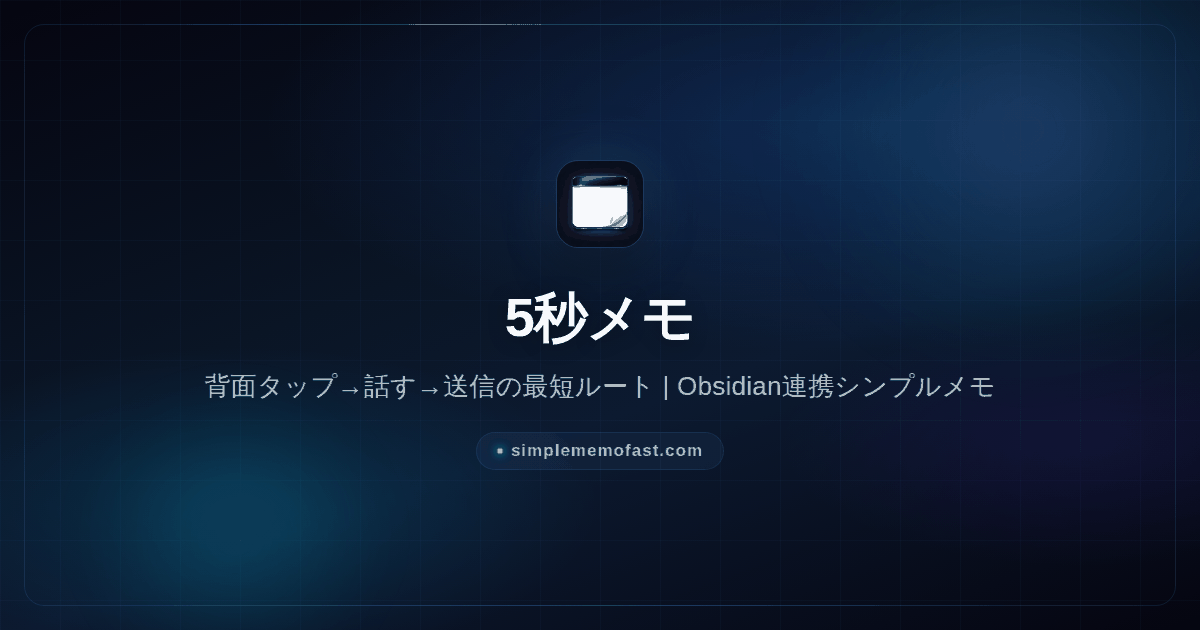
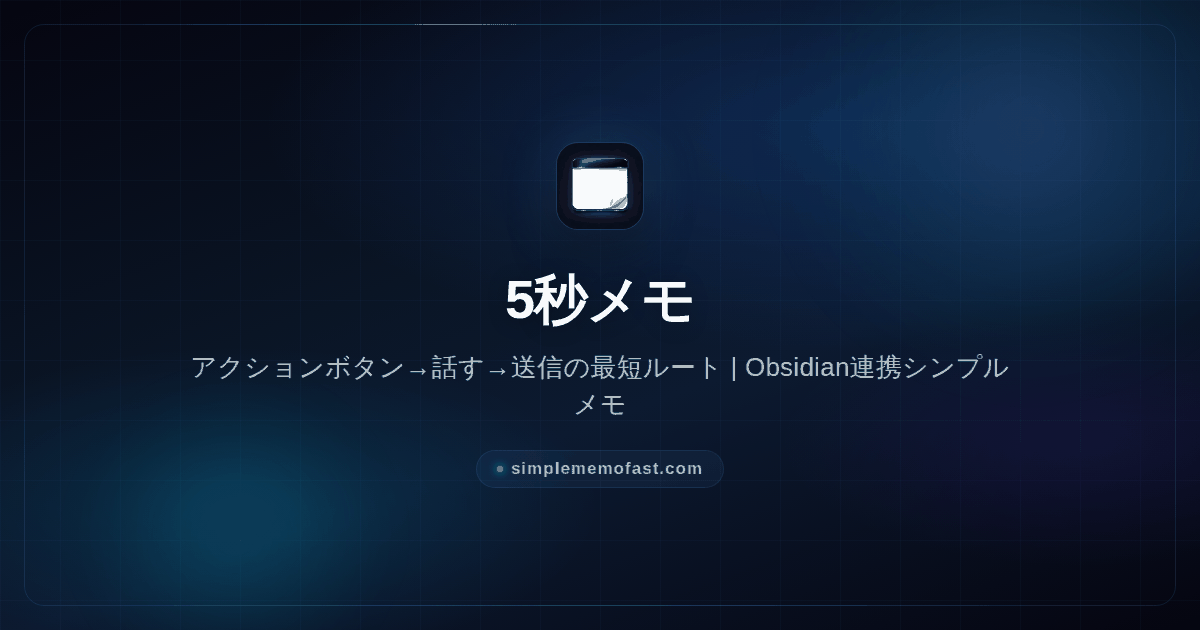
fix(lp): 呼び出しの主役をアクションボタンに直す（/fastest-voice-memo/）
収録機は iPhone 16e で、押されていたのは側面のアクションボタンだった。
先の実装は「背面タップ主・アクションボタン従」で書いていたが逆で、しかも
搭載機種の記述（「iPhone 15 Pro 以降」）が 16e を取りこぼしていた。
アクションボタンは iPhone 15 Pro／15 Pro Max と iPhone 16 シリーズ以降
（16e を含む）に付いている。

- title / description / OG / JSON-LD / ヒーロー / 比較表 / 設定手順 / FAQ を、
  アクションボタンを先に出す順へ入れ替える。FAQ は可視HTMLとFAQPage schema の
  文言を同一に保った。
- デモの拍1を作り直す。背面タップの波紋（画面中央の同心円）では側面ボタンの
  長押しを表せないので、フレーム外に出したアクションボタンが点灯して長押しの
  間だけ保持されるアニメーションにした。音量ボタンも足して、光っているのが
  どのボタンなのかを位置で分かるようにしてある。クリップは .demo__phone から
  .demo__screen へ移し、側面の突起がフレーム外に描けるようにした。
- 内部リンク3か所のアンカーテキストと OG 画像も追随させた。

seo-check: 0 errors / 164 warnings（変更前と同数）、JSON-LD は全て parse 可能、
モバイル横スクロール 0px。

Claude-Session: https://claude.ai/code/session_013fVEDUAziXDyrKEX7BhyDF

Changed region(s): [[0.1542, 0.4222, 0.8325, 0.6635], [0.4625, 0.2111, 0.555, 0.3921], [0.4008, 0.6937, 0.5858, 0.754]]

diff --git a/fastest-voice-memo/index.html b/fastest-voice-memo/index.html
@@ -22,13 +22,13 @@
       });
     });
   </script>
-  <title>5秒メモ — 背面タップ→話す→送信の最短ルート | Obsidian連携シンプルメモ</title>
-  <meta name="description" content="思いついてから送信まで実測5秒。iPhoneの背面タップかアクションボタンに「声でメモ」を割り当て、起動時の音声自動オンと組み合わせる最短ルートを、設定手順つきで解説します。">
+  <title>5秒メモ — アクションボタン→話す→送信の最短ルート | Obsidian連携シンプルメモ</title>
+  <meta name="description" content="思いついてから送信まで実測5秒。iPhoneのアクションボタン（または背面タップ）に「声でメモ」を割り当て、起動時の音声自動オンと組み合わせる最短ルートを設定手順つきで解説します。">
   <meta name="theme-color" content="#070b14">
 
   <!-- OGP -->
-  <meta property="og:title" content="5秒メモ — 背面タップ→話す→送信の最短ルート | Obsidian連携シンプルメモ">
-  <meta property="og:description" content="思いついてから送信まで実測5秒。背面タップ／アクションボタン＋起動時の音声自動オンで、画面を見ないままメモが終わる最短ルート。">
+  <meta property="og:title" content="5秒メモ — アクションボタン→話す→送信の最短ルート | Obsidian連携シンプルメモ">
+  <meta property="og:description" content="思いついてから送信まで実測5秒。アクションボタン／背面タップ＋起動時の音声自動オンで、画面を見ないままメモが終わる最短ルート。">
   <meta property="og:type" content="article">
   <meta property="article:published_time" content="2026-07-31T00:00:00+09:00">
   <meta property="og:url" content="https://simplememofast.com/fastest-voice-memo/">
@@ -42,8 +42,8 @@
   <!-- Twitter Card -->
   <meta name="twitter:card" content="summary_large_image">
   <meta name="twitter:site" content="@simplememofast">
-  <meta name="twitter:title" content="5秒メモ — 背面タップ→話す→送信の最短ルート | Obsidian連携シンプルメモ">
-  <meta name="twitter:description" content="思いついてから送信まで実測5秒。背面タップ＋起動時の音声自動オンで、画面を見ないままメモが終わる最短ルート。">
+  <meta name="twitter:title" content="5秒メモ — アクションボタン→話す→送信の最短ルート | Obsidian連携シンプルメモ">
+  <meta name="twitter:description" content="思いついてから送信まで実測5秒。アクションボタン＋起動時の音声自動オンで、画面を見ないままメモが終わる最短ルート。">
   <meta name="twitter:image" content="https://simplememofast.com/assets/img/og/fastest-voice-memo.png">
   <link rel="preconnect" href="https://analytics.ahrefs.com">
   <!-- i18n: managed by scripts/normalize_i18n_head.py -->
@@ -70,14 +70,14 @@
   </script>
 
   <!-- JSON-LD: Article -->
-  <script type="application/ld+json">{"@context":"https://schema.org","@type":"Article","@id":"https://simplememofast.com/fastest-voice-memo/#article","inLanguage":"ja","headline":"5秒メモ — 背面タップ→話す→送信の最短ルート","description":"思いついてから送信まで実測5秒。iPhoneの背面タップかアクションボタンに「声でメモ」を割り当て、起動時の音声自動オンと組み合わせる最短ルートを、設定手順つきで解説します。","url":"https://simplememofast.com/fastest-voice-memo/","datePublished":"2026-07-31","dateModified":"2026-07-31","author":{"@type":"Person","@id":"https://simplememofast.com/about/#person","name":"AI Ataka","url":"https://simplememofast.com/about/"},"publisher":{"@type":"Organization","name":"Obsidian連携シンプルメモ","@id":"https://simplememofast.com/#organization","url":"https://simplememofast.com/","logo":{"@type":"ImageObject","url":"https://simplememofast.com/assets/img/app-icon-256.png","width":256,"height":256},"alternateName":["Captio式シンプルメモ","シンプルメモ","SimpleMemoFast","Simple Memo","Simple Memo - for Obsidian"]},"image":"https://simplememofast.com/assets/img/og/fastest-voice-memo.png","mainEntityOfPage":{"@type":"WebPage","@id":"https://simplememofast.com/fastest-voice-memo/"}}</script>
+  <script type="application/ld+json">{"@context":"https://schema.org","@type":"Article","@id":"https://simplememofast.com/fastest-voice-memo/#article","inLanguage":"ja","headline":"5秒メモ — アクションボタン→話す→送信の最短ルート","description":"思いついてから送信まで実測5秒。iPhoneのアクションボタン（または背面タップ）に「声でメモ」を割り当て、起動時の音声自動オンと組み合わせる最短ルートを設定手順つきで解説します。","url":"https://simplememofast.com/fastest-voice-memo/","datePublished":"2026-07-31","dateModified":"2026-07-31","author":{"@type":"Person","@id":"https://simplememofast.com/about/#person","name":"AI Ataka","url":"https://simplememofast.com/about/"},"publisher":{"@type":"Organization","name":"Obsidian連携シンプルメモ","@id":"https://simplememofast.com/#organization","url":"https://simplememofast.com/","logo":{"@type":"ImageObject","url":"https://simplememofast.com/assets/img/app-icon-256.png","width":256,"height":256},"alternateName":["Captio式シンプルメモ","シンプルメモ","SimpleMemoFast","Simple Memo","Simple Memo - for Obsidian"]},"image":"https://simplememofast.com/assets/img/og/fastest-voice-memo.png","mainEntityOfPage":{"@type":"WebPage","@id":"https://simplememofast.com/fastest-voice-memo/"}}</script>
 
   <!-- JSON-LD: FAQPage -->
-  <script type="application/ld+json">{"@context":"https://schema.org","@type":"FAQPage","@id":"https://simplememofast.com/fastest-voice-memo/#faq","inLanguage":"ja","mainEntity":[{"@type":"Question","name":"本当に5秒で終わりますか？","acceptedAnswer":{"@type":"Answer","text":"呼び出しから送信完了までの実測で約5秒です。内訳は、背面タップでの呼び出しとアプリ起動に約1.5秒、話す時間が2秒前後、送信タップから画面が空になるまでが約1秒。話す内容が長ければその分だけ伸びますが、「アプリを探す」「マイクを押す」「保存先を選ぶ」といった操作時間はゼロのままです。"}},{"@type":"Question","name":"背面タップはどの機種で使えますか？","acceptedAnswer":{"@type":"Answer","text":"iPhone 8 以降で使えます（iOSの設定 → アクセシビリティ → タッチ → 背面タップ）。iPhone 15 Pro 以降ならアクションボタンでも同じことができ、こちらは誤爆がほぼ無いのが利点です。どちらも無い場合は、ロック画面のコントロールやホーム画面のショートカット、Siriでも呼び出せます。"}},{"@type":"Question","name":"ショートカットを自分で作る必要はありますか？","acceptedAnswer":{"@type":"Answer","text":"必要ありません。アプリが「声でメモ」「メモを書く」をショートカットとしてOSに公開しているため、背面タップやアクションボタンの割り当て一覧にそのまま並びます。ショートカットアプリでレシピを組む作業は不要です。"}},{"@type":"Question","name":"開いた瞬間に音声入力が始まるのはどう設定しますか？","acceptedAnswer":{"@type":"Answer","text":"アプリの設定 → 詳細設定 →「起動時に音声入力を自動オン」をオンにします。設定 → 使い方 →「おすすめの使い方（最短5秒）」からも、その場でオンにできます。対応はiOS 26以降の対応端末です。"}},{"@type":"Question","name":"話した内容はどこに残りますか？","acceptedAnswer":{"@type":"Answer","text":"送信すると自分のメールの受信箱に届きます。Obsidian連携をオンにしていれば、同じ内容が保管庫のノートにも追記されます。文字起こしは端末内で完結し、音声もテキストも外部の音声認識サービスには送りません。"}},{"@type":"Question","name":"言い間違えたときはどうすればいいですか？","acceptedAnswer":{"@type":"Answer","text":"そのまま言い直して構いません。送信前ならキーボードで直せますし、入力中の内容は端末内に暗号化して自動保存されるため、途中で中断しても次に開けば続きから編集できます。最短ルートの目的は「完璧な文を作ること」ではなく「思いつきを取り逃がさないこと」です。"}}]}</script>
+  <script type="application/ld+json">{"@context":"https://schema.org","@type":"FAQPage","@id":"https://simplememofast.com/fastest-voice-memo/#faq","inLanguage":"ja","mainEntity":[{"@type":"Question","name":"本当に5秒で終わりますか？","acceptedAnswer":{"@type":"Answer","text":"呼び出しから送信完了までの実測で約5秒です。内訳は、アクションボタンの長押しとアプリ起動に約1.5秒、話す時間が2秒前後、送信タップから画面が空になるまでが約1秒。話す内容が長ければその分だけ伸びますが、「アプリを探す」「マイクを押す」「保存先を選ぶ」といった操作時間はゼロのままです。"}},{"@type":"Question","name":"アクションボタンが無い機種でも使えますか？","acceptedAnswer":{"@type":"Answer","text":"使えます。背面タップ（iPhone 8 以降）に同じ「声でメモ」を割り当ててください。iOSの設定 → アクセシビリティ → タッチ → 背面タップ → ダブルタップ から選べます。ロック画面のコントロールやホーム画面のショートカット、Siriでも呼び出せます。なお、アクションボタンは iPhone 15 Pro／15 Pro Max と iPhone 16 シリーズ以降（16e を含む）に付いています。"}},{"@type":"Question","name":"ショートカットを自分で作る必要はありますか？","acceptedAnswer":{"@type":"Answer","text":"必要ありません。アプリが「声でメモ」「メモを書く」をショートカットとしてOSに公開しているため、アクションボタンや背面タップの割り当て一覧にそのまま並びます。ショートカットアプリでレシピを組む作業は不要です。"}},{"@type":"Question","name":"開いた瞬間に音声入力が始まるのはどう設定しますか？","acceptedAnswer":{"@type":"Answer","text":"アプリの設定 → 詳細設定 →「起動時に音声入力を自動オン」をオンにします。設定 → 使い方 →「おすすめの使い方（最短5秒）」からも、その場でオンにできます。対応はiOS 26以降の対応端末です。"}},{"@type":"Question","name":"話した内容はどこに残りますか？","acceptedAnswer":{"@type":"Answer","text":"送信すると自分のメールの受信箱に届きます。Obsidian連携をオンにしていれば、同じ内容が保管庫のノートにも追記されます。文字起こしは端末内で完結し、音声もテキストも外部の音声認識サービスには送りません。"}},{"@type":"Question","name":"言い間違えたときはどうすればいいですか？","acceptedAnswer":{"@type":"Answer","text":"そのまま言い直して構いません。送信前ならキーボードで直せますし、入力中の内容は端末内に暗号化して自動保存されるため、途中で中断しても次に開けば続きから編集できます。最短ルートの目的は「完璧な文を作ること」ではなく「思いつきを取り逃がさないこと」です。"}}]}</script>
 
   <!-- JSON-LD: WebPage with Speakable -->
   <script type="application/ld+json">
-  {"@context":"https://schema.org","@type":"WebPage","@id":"https://simplememofast.com/fastest-voice-memo/#webpage","inLanguage":"ja","name":"5秒メモ — 背面タップ→話す→送信の最短ルート | Obsidian連携シンプルメモ","url":"https://simplememofast.com/fastest-voice-memo/","speakable":{"@type":"SpeakableSpecification","cssSelector":[".lp-hero__title",".lp-hero__sub",".lp-section__lead"]},"isPartOf":{"@id":"https://simplememofast.com/#website"}}
+  {"@context":"https://schema.org","@type":"WebPage","@id":"https://simplememofast.com/fastest-voice-memo/#webpage","inLanguage":"ja","name":"5秒メモ — アクションボタン→話す→送信の最短ルート | Obsidian連携シンプルメモ","url":"https://simplememofast.com/fastest-voice-memo/","speakable":{"@type":"SpeakableSpecification","cssSelector":[".lp-hero__title",".lp-hero__sub",".lp-section__lead"]},"isPartOf":{"@id":"https://simplememofast.com/#website"}}
   </script>
   <link rel="stylesheet" href="/assets/css/style.min.css?v=20260702-low">
   <link rel="preload" href="/assets/fonts/NotoSansJP-Regular-subset.woff2" as="font" type="font/woff2" crossorigin>
@@ -140,21 +140,27 @@
        個人情報を含まない抽象化した画面で再現する。全体7秒でループし、
        うち0〜5秒が「実測5秒」に相当する。 */
     .demo{display:flex;flex-wrap:wrap;gap:2.5rem;align-items:center;justify-content:center;margin:2rem 0 1rem}
+    /* 側面のアクションボタンをフレームの外側に出すため、クリップは .demo__screen に任せる */
     .demo__phone{position:relative;width:230px;height:470px;flex:0 0 auto;border-radius:38px;
       background:linear-gradient(160deg,#1b2536,#0b1220);border:1px solid rgba(100,160,220,.25);
-      box-shadow:0 24px 60px rgba(0,0,0,.45);padding:10px;overflow:hidden}
+      box-shadow:0 24px 60px rgba(0,0,0,.45);padding:10px}
+    .demo__abtn{position:absolute;left:-5px;top:104px;width:6px;height:44px;border-radius:3px;
+      background:#3a4557;animation:demoAbtn 7s infinite}
+    .demo__abtn::after{content:'';position:absolute;inset:-8px -14px;border-radius:12px;
+      background:radial-gradient(circle,rgba(34,211,238,.6),transparent 70%);
+      opacity:0;animation:demoAbtnGlow 7s infinite}
+    .demo__vol{position:absolute;right:-4px;width:5px;border-radius:3px;background:#2b3547}
+    .demo__vol--a{top:96px;height:30px}
+    .demo__vol--b{top:134px;height:52px}
     .demo__screen{position:relative;width:100%;height:100%;border-radius:29px;overflow:hidden;background:#0d1526}
     .demo__layer{position:absolute;inset:0;opacity:0}
 
-    /* 拍1: ホーム画面と背面タップの波紋 */
+    /* 拍1: ホーム画面とアクションボタンの長押し */
     .demo__home{background:linear-gradient(180deg,#2a4a72,#3d5f86 55%,#4a4f86);
       display:flex;align-items:flex-start;justify-content:center;padding-top:34px;
       animation:demoHome 7s infinite}
     .demo__grid{display:grid;grid-template-columns:repeat(4,1fr);gap:11px;width:82%}
     .demo__app{aspect-ratio:1;border-radius:11px;background:rgba(255,255,255,.16)}
-    .demo__ripple{position:absolute;left:50%;top:54%;width:26px;height:26px;margin:-13px 0 0 -13px;
-      border-radius:50%;border:2px solid rgba(255,255,255,.85);animation:demoRipple 7s infinite}
-    .demo__ripple--b{animation-delay:.18s}
     .demo__banner{position:absolute;top:16px;left:50%;transform:translateX(-50%);
       display:flex;align-items:center;gap:7px;padding:8px 16px;border-radius:18px;
       background:rgba(245,247,250,.94);color:#111;font-size:.72rem;font-weight:700;white-space:nowrap;
@@ -194,8 +200,9 @@
     .demo__key--wide{background:#eceef3}
 
     @keyframes demoHome{0%,19%{opacity:1}22%,100%{opacity:0}}
-    @keyframes demoRipple{0%{opacity:0;transform:scale(.4)}3%{opacity:.9;transform:scale(.6)}
-      12%{opacity:0;transform:scale(3.4)}12.1%,100%{opacity:0}}
+    /* 長押しなので、点灯 → しばらく保持 → 消灯（背面タップの2連打とは動きが違う） */
+    @keyframes demoAbtn{0%,1%{background:#3a4557}4%,10%{background:#22d3ee}14%,100%{background:#3a4557}}
+    @keyframes demoAbtnGlow{0%{opacity:0}4%,10%{opacity:1}16%,100%{opacity:0}}
     @keyframes demoBanner{0%,5%{opacity:0;transform:translateX(-50%) translateY(-14px)}
       9%,18%{opacity:1;transform:translateX(-50%) translateY(0)}22%,100%{opacity:0}}
     @keyframes demoCompose{0%,18%{opacity:0}21%,100%{opacity:1}}
@@ -217,7 +224,7 @@
     .demo__caption{text-align:center;font-size:.8rem;color:var(--text-muted);margin-top:.5rem}
 
     @media(prefers-reduced-motion:reduce){
-      .demo__home,.demo__ripple,.demo__banner,.demo__compose,.demo__placeholder,
+      .demo__home,.demo__abtn,.demo__abtn::after,.demo__banner,.demo__compose,.demo__placeholder,
       .demo__typed,.demo__wave,.demo__mic,.demo__send,.demo__wave i{animation:none}
       /* 動きを止める設定では、最後の一枚（話し終えて送信できる状態）を静止画として見せる */
       .demo__home,.demo__placeholder{opacity:0}
@@ -402,14 +409,14 @@
   <!-- Meta Templates for JS -->
   <div class="meta-templates" style="display:none;">
     <div lang="ja" class="meta-template" data-lang="ja">
-      <span class="meta-title">5秒メモ — 背面タップ→話す→送信の最短ルート | Obsidian連携シンプルメモ</span>
-      <span class="meta-og-title">5秒メモ — 背面タップ→話す→送信の最短ルート | Obsidian連携シンプルメモ</span>
-      <span class="meta-description">思いついてから送信まで実測5秒。iPhoneの背面タップかアクションボタンに「声でメモ」を割り当て、起動時の音声自動オンと組み合わせる最短ルートを、設定手順つきで解説します。</span>
+      <span class="meta-title">5秒メモ — アクションボタン→話す→送信の最短ルート | Obsidian連携シンプルメモ</span>
+      <span class="meta-og-title">5秒メモ — アクションボタン→話す→送信の最短ルート | Obsidian連携シンプルメモ</span>
+      <span class="meta-description">思いついてから送信まで実測5秒。iPhoneのアクションボタン（または背面タップ）に「声でメモ」を割り当て、起動時の音声自動オンと組み合わせる最短ルートを設定手順つきで解説します。</span>
     </div>
     <div lang="en" class="meta-template" data-lang="en">
-      <span class="meta-title">The 5-Second Memo — Back Tap, speak, send | Simple Memo</span>
-      <span class="meta-og-title">The 5-Second Memo — Back Tap, speak, send | Simple Memo</span>
-      <span class="meta-description">Five seconds from thought to sent. Assign "Voice Memo" to Back Tap or the Action button, pair it with auto-start voice input, and the whole memo happens without looking at the screen.</span>
+      <span class="meta-title">The 5-Second Memo — Action button, speak, send | Simple Memo</span>
+      <span class="meta-og-title">The 5-Second Memo — Action button, speak, send | Simple Memo</span>
+      <span class="meta-description">Five seconds from thought to sent. Assign "Voice Memo" to the Action button (or Back Tap), pair it with auto-start voice input, and the whole memo happens without looking at the screen.</span>
     </div>
   </div>
 
@@ -427,8 +434,8 @@
           <span lang="en" data-lang="en">Trigger it, speak, send. Five seconds.</span>
         </h1>
         <p class="lp-hero__sub">
-          <span lang="ja" data-lang="ja">いちばん速いメモは、<strong>アプリを探さないメモ</strong>です。iPhoneの背面をトントンと叩くと「声でメモ」が立ち上がり、<strong>開いた瞬間にはもう音声入力が始まっている</strong>。話して、送信を1回。ホーム画面に戻るまで<strong>5秒</strong>で、メモは自分の受信箱とObsidianに届いています。</span>
-          <span lang="en" data-lang="en">The fastest memo is the one where <strong>you never look for the app</strong>. Tap the back of your iPhone twice and "Voice Memo" launches — and <strong>voice input is already running</strong> the moment the screen appears. Speak, tap send once. <strong>Five seconds</strong> later you're back on the Home Screen and the note is in your inbox and your Obsidian vault.</span>
+          <span lang="ja" data-lang="ja">いちばん速いメモは、<strong>アプリを探さないメモ</strong>です。iPhone側面のアクションボタンを長押しすると「声でメモ」が立ち上がり、<strong>開いた瞬間にはもう音声入力が始まっている</strong>。話して、送信を1回。ホーム画面に戻るまで<strong>5秒</strong>で、メモは自分の受信箱とObsidianに届いています。</span>
+          <span lang="en" data-lang="en">The fastest memo is the one where <strong>you never look for the app</strong>. Hold the Action button on the side of your iPhone and "Voice Memo" launches — and <strong>voice input is already running</strong> the moment the screen appears. Speak, tap send once. <strong>Five seconds</strong> later you're back on the Home Screen and the note is in your inbox and your Obsidian vault.</span>
         </p>
         <div class="hero-cta-row" style="display:flex;gap:.75rem;justify-content:center;flex-wrap:wrap;">
           <a lang="ja" data-lang="ja" href="https://apps.apple.com/jp/app/id6758438948?ct=fastestvoice-jp&amp;mt=8" class="app-store-badge" aria-label="App Store からダウンロード">
@@ -451,7 +458,10 @@
       <section class="lp-section" style="padding-top:0;" id="demo">
         <div class="demo">
           <div class="demo__phone" role="img"
-               aria-label="iPhoneの背面を2回叩くと「声でメモ」が起動し、開いた瞬間に音声入力が始まり、話した内容が文字になり、送信をタップして5秒で完了する様子">
+               aria-label="iPhone側面のアクションボタンを長押しすると「声でメモ」が起動し、開いた瞬間に音声入力が始まり、話した内容が文字になり、送信をタップして5秒で完了する様子">
+            <span class="demo__abtn"></span>
+            <span class="demo__vol demo__vol--a"></span>
+            <span class="demo__vol demo__vol--b"></span>
             <div class="demo__screen">
               <div class="demo__layer demo__home">
                 <div class="demo__grid">
@@ -459,8 +469,6 @@
                   <span class="demo__app"></span><span class="demo__app"></span><span class="demo__app"></span><span class="demo__app"></span>
                   <span class="demo__app"></span><span class="demo__app"></span><span class="demo__app"></span><span class="demo__app"></span>
                 </div>
-                <span class="demo__ripple"></span>
-                <span class="demo__ripple demo__ripple--b"></span>
                 <span class="demo__banner"><span lang="ja" data-lang="ja">声でメモ</span><span lang="en" data-lang="en">Voice Memo</span></span>
               </div>
               <div class="demo__layer demo__compose">
@@ -490,8 +498,8 @@
             <li class="demo__beat">
               <span class="demo__time">0.0s</span>
               <div>
-                <div class="demo__beat-title"><span lang="ja" data-lang="ja">背面をトントン</span><span lang="en" data-lang="en">Two taps on the back</span></div>
-                <div class="demo__beat-desc"><span lang="ja" data-lang="ja">ロック解除もアイコン探しも不要。ポケットから出しながら叩けます。</span><span lang="en" data-lang="en">No unlocking, no hunting for an icon — you can do it while pulling the phone out.</span></div>
+                <div class="demo__beat-title"><span lang="ja" data-lang="ja">アクションボタンを長押し</span><span lang="en" data-lang="en">Hold the Action button</span></div>
+                <div class="demo__beat-desc"><span lang="ja" data-lang="ja">ロック解除もアイコン探しも不要。ポケットから出しながら押せます。</span><span lang="en" data-lang="en">No unlocking, no hunting for an icon — you can press it while pulling the phone out.</span></div>
               </div>
             </li>
             <li class="demo__beat">
@@ -534,8 +542,8 @@
       <section class="lp-section" style="padding-top:1rem;">
         <div class="tip-box" style="font-size:.95rem;">
           <div class="tip-box__title"><span lang="ja" data-lang="ja">ひとことで言うと</span><span lang="en" data-lang="en">In one sentence</span></div>
-          <p lang="ja" data-lang="ja"><strong>「声でメモ」を背面タップかアクションボタンに割り当て</strong>、アプリ側で<strong>「起動時に音声入力を自動オン」</strong>にする。この2つを繋ぐだけで、<strong>呼び出し・マイク起動・保存先選択の操作がすべて消え</strong>、残るのは「話す」と「送信」だけになります。</p>
-          <p lang="en" data-lang="en"><strong>Assign "Voice Memo" to Back Tap or the Action button</strong>, then turn on <strong>"Auto-start voice input on launch"</strong> in the app. Wiring those two together <strong>removes launching, starting the mic, and picking a destination</strong> — all that's left is speaking and sending.</p>
+          <p lang="ja" data-lang="ja"><strong>「声でメモ」をアクションボタン（または背面タップ）に割り当て</strong>、アプリ側で<strong>「起動時に音声入力を自動オン」</strong>にする。この2つを繋ぐだけで、<strong>呼び出し・マイク起動・保存先選択の操作がすべて消え</strong>、残るのは「話す」と「送信」だけになります。</p>
+          <p lang="en" data-lang="en"><strong>Assign "Voice Memo" to the Action button (or Back Tap)</strong>, then turn on <strong>"Auto-start voice input on launch"</strong> in the app. Wiring those two together <strong>removes launching, starting the mic, and picking a destination</strong> — all that's left is speaking and sending.</p>
         </div>
       </section>
 
@@ -552,7 +560,7 @@
         <div class="reason-cards">
           <div class="reason-card">
             <div class="reason-card__title">👆 <span lang="ja" data-lang="ja">アプリを探す時間 → 0</span><span lang="en" data-lang="en">Finding the app → gone</span></div>
-            <div class="reason-card__desc"><span lang="ja" data-lang="ja">背面タップ・アクションボタン・Siriのどれからでも呼べます。ホーム画面の何ページ目にあるかを覚えておく必要がありません。</span><span lang="en" data-lang="en">Back Tap, the Action button, or Siri all reach it. You never need to remember which Home Screen page the icon lives on.</span></div>
+            <div class="reason-card__desc"><span lang="ja" data-lang="ja">アクションボタン・背面タップ・Siriのどれからでも呼べます。ホーム画面の何ページ目にあるかを覚えておく必要がありません。</span><span lang="en" data-lang="en">The Action button, Back Tap, or Siri all reach it. You never need to remember which Home Screen page the icon lives on.</span></div>
           </div>
           <div class="reason-card">
             <div class="reason-card__title">🎙 <span lang="ja" data-lang="ja">マイクを押す時間 → 0</span><span lang="en" data-lang="en">Pressing the mic → gone</span></div>
@@ -592,7 +600,7 @@
               <tr>
                 <th scope="row"><span lang="ja" data-lang="ja">起動</span><span lang="en" data-lang="en">Launch</span></th>
                 <td><span lang="ja" data-lang="ja">ロック解除 → ホーム画面を探す → アイコンをタップ</span><span lang="en" data-lang="en">Unlock, find the page, tap the icon</span></td>
-                <td class="col-ours"><span lang="ja" data-lang="ja">背面を2回叩く（画面を見ない）</span><span lang="en" data-lang="en">Two taps on the back — eyes free</span></td>
+                <td class="col-ours"><span lang="ja" data-lang="ja">側面のボタンを長押し（画面を見ない）</span><span lang="en" data-lang="en">Hold the side button — eyes free</span></td>
               </tr>
               <tr>
                 <th scope="row"><span lang="ja" data-lang="ja">新規作成</span><span lang="en" data-lang="en">New note</span></th>
@@ -637,19 +645,19 @@
           <span lang="en" data-lang="en">Four ways to trigger it — pick one</span>
         </h2>
         <p class="lp-section__lead">
-          <span lang="ja" data-lang="ja">アプリが「声でメモ」というショートカットをiOSに公開しているので、ショートカットアプリでレシピを自作する必要はありません。割り当て一覧にそのまま並びます。</span>
+          <span lang="ja" data-lang="ja">アプリが「声でメモ」というショートカットをiOSに公開しているので、ショートカットアプリでレシピを自作する必要はありません。アクションボタンや背面タップの割り当て一覧に、そのまま並びます。</span>
           <span lang="en" data-lang="en">The app publishes a "Voice Memo" shortcut to iOS, so there's no recipe to build in the Shortcuts app — it simply appears in the assignment lists.</span>
         </p>
         <div class="trigger-grid">
           <div class="trigger-card trigger-card--best">
             <span class="trigger-card__badge"><span lang="ja" data-lang="ja">いちばん速い</span><span lang="en" data-lang="en">Fastest</span></span>
-            <div class="trigger-card__title"><span lang="ja" data-lang="ja">背面タップ（iPhone 8 以降）</span><span lang="en" data-lang="en">Back Tap (iPhone 8 and later)</span></div>
-            <div class="trigger-card__path"><span lang="ja" data-lang="ja">設定 → アクセシビリティ → タッチ → 背面タップ → ダブルタップ → ショートカットの「声でメモ」</span><span lang="en" data-lang="en">Settings → Accessibility → Touch → Back Tap → Double Tap → the "Voice Memo" shortcut</span></div>
+            <div class="trigger-card__title"><span lang="ja" data-lang="ja">アクションボタン</span><span lang="en" data-lang="en">The Action button</span></div>
+            <div class="trigger-card__path"><span lang="ja" data-lang="ja">設定 → アクションボタン → ショートカット →「声でメモ」<br>対応機種: iPhone 15 Pro／15 Pro Max、iPhone 16 シリーズ以降（16e を含む）</span><span lang="en" data-lang="en">Settings → Action Button → Shortcut → "Voice Memo"<br>On iPhone 15 Pro / 15 Pro Max and the iPhone 16 lineup onward, including 16e.</span></div>
           </div>
           <div class="trigger-card">
-            <span class="trigger-card__badge"><span lang="ja" data-lang="ja">誤爆が少ない</span><span lang="en" data-lang="en">Fewest misfires</span></span>
-            <div class="trigger-card__title"><span lang="ja" data-lang="ja">アクションボタン（iPhone 15 Pro 以降）</span><span lang="en" data-lang="en">Action button (iPhone 15 Pro and later)</span></div>
-            <div class="trigger-card__path"><span lang="ja" data-lang="ja">設定 → アクションボタン → ショートカット →「声でメモ」</span><span lang="en" data-lang="en">Settings → Action Button → Shortcut → "Voice Memo"</span></div>
+            <span class="trigger-card__badge"><span lang="ja" data-lang="ja">機種を選ばない</span><span lang="en" data-lang="en">Widest support</span></span>
+            <div class="trigger-card__title"><span lang="ja" data-lang="ja">背面タップ（iPhone 8 以降）</span><span lang="en" data-lang="en">Back Tap (iPhone 8 and later)</span></div>
+            <div class="trigger-card__path"><span lang="ja" data-lang="ja">設定 → アクセシビリティ → タッチ → 背面タップ → ダブルタップ → ショートカットの「声でメモ」</span><span lang="en" data-lang="en">Settings → Accessibility → Touch → Back Tap → Double Tap → the "Voice Memo" shortcut</span></div>
           </div>
           <div class="trigger-card">
             <span class="trigger-card__badge"><span lang="ja" data-lang="ja">手がふさがるとき</span><span lang="en" data-lang="en">Hands full</span></span>
@@ -657,7 +665,7 @@
             <div class="trigger-card__path"><span lang="ja" data-lang="ja">「シンプルメモで音声メモ」と話しかけるだけ。設定は不要です。</span><span lang="en" data-lang="en">Just say "Start a voice memo with Simple Memo." No setup needed.</span></div>
           </div>
           <div class="trigger-card">
-            <span class="trigger-card__badge"><span lang="ja" data-lang="ja">機種を選ばない</span><span lang="en" data-lang="en">Any device</span></span>
+            <span class="trigger-card__badge"><span lang="ja" data-lang="ja">片手で</span><span lang="en" data-lang="en">One-handed</span></span>
             <div class="trigger-card__title"><span lang="ja" data-lang="ja">ホーム画面・ロック画面</span><span lang="en" data-lang="en">Home Screen / Lock Screen</span></div>
             <div class="trigger-card__path"><span lang="ja" data-lang="ja">ウィジェットやコントロールを親指の届く位置に置いて1タップ。</span><span lang="en" data-lang="en">Put the widget or control within thumb reach and tap once.</span></div>
           </div>
@@ -671,31 +679,31 @@
           <span lang="en" data-lang="en">Setup (about a minute)</span>
         </h2>
         <ul lang="ja" class="prereq-list" data-lang="ja">
-          <li>iPhone（背面タップは iPhone 8 以降）</li>
+          <li>iPhone（アクションボタン搭載機、または背面タップが使える iPhone 8 以降）</li>
           <li>音声入力は iOS 26 以降の対応端末</li>
           <li>アプリの初回設定で宛先メールを認証済みであること</li>
         </ul>
         <ul lang="en" class="prereq-list" data-lang="en">
-          <li>An iPhone (Back Tap needs iPhone 8 or later)</li>
+          <li>An iPhone (an Action button model, or iPhone 8+ for Back Tap)</li>
           <li>Voice input requires a supported device on iOS 26+</li>
           <li>Your destination email verified during first-run setup</li>
         </ul>
         <ol lang="ja" class="steps-list" data-lang="ja">
           <li><strong>音声の自動オンを入れる</strong><br>アプリの設定 → 詳細設定 →「起動時に音声入力を自動オン」をオン。設定 → 使い方 →「おすすめの使い方（最短5秒）」からも、その場で切り替えられます。</li>
-          <li><strong>呼び出しを割り当てる</strong><br>iPhoneの設定 → アクセシビリティ → タッチ → 背面タップ → ダブルタップ。一覧を下までスクロールし、ショートカット欄の「声でメモ」を選びます。</li>
-          <li><strong>1回テストする</strong><br>背面をトントン。メモ画面が開いて録音が始まったら成功です。何か話して送信し、受信箱に届くところまで確認します。</li>
+          <li><strong>呼び出しを割り当てる</strong><br>iPhoneの設定 → アクションボタン → ショートカット →「声でメモ」。アクションボタンが無い機種は、設定 → アクセシビリティ → タッチ → 背面タップ → ダブルタップ から同じ「声でメモ」を選びます。</li>
+          <li><strong>1回テストする</strong><br>アクションボタンを長押し。メモ画面が開いて録音が始まったら成功です。何か話して送信し、受信箱に届くところまで確認します。</li>
           <li><strong>（任意）Obsidianも繋ぐ</strong><br>詳細設定でObsidian連携をオンにし、保管庫フォルダを選びます。以降は送信のたびに、メールと保管庫の両方に残ります。</li>
         </ol>
         <ol lang="en" class="steps-list" data-lang="en">
           <li><strong>Turn on auto-start voice</strong><br>App settings → Advanced settings → "Auto-start voice input on launch." You can also flip it from Settings → Help → "Recommended workflow (5 seconds)."</li>
-          <li><strong>Assign the trigger</strong><br>iOS Settings → Accessibility → Touch → Back Tap → Double Tap. Scroll to the bottom of the list and pick "Voice Memo" under Shortcuts.</li>
-          <li><strong>Test it once</strong><br>Tap the back twice. If the compose screen opens and it's already recording, you're set. Say something, send it, and confirm it lands in your inbox.</li>
+          <li><strong>Assign the trigger</strong><br>iOS Settings → Action Button → Shortcut → "Voice Memo." Without an Action button, use Settings → Accessibility → Touch → Back Tap → Double Tap and pick the same "Voice Memo."</li>
+          <li><strong>Test it once</strong><br>Hold the Action button. If the compose screen opens and it's already recording, you're set. Say something, send it, and confirm it lands in your inbox.</li>
           <li><strong>(Optional) Wire up Obsidian</strong><br>Turn on Obsidian integration in Advanced settings and pick your vault folder. From then on every send lands in both your email and your vault.</li>
         </ol>
         <div class="tip-box">
           <div class="tip-box__title"><span lang="ja" data-lang="ja">つまずいたら</span><span lang="en" data-lang="en">If it doesn't work</span></div>
-          <p lang="ja" data-lang="ja" style="margin:0;">背面タップの一覧に「声でメモ」が出てこないときは、アプリを一度起動してから設定を開き直してください（インストール直後はショートカットの登録が反映されていないことがあります）。開いても録音が始まらないときは、iOSのバージョンと「起動時に音声入力を自動オン」の状態を確認してください。</p>
-          <p lang="en" data-lang="en" style="margin:0;">If "Voice Memo" isn't in the Back Tap list, launch the app once and reopen Settings — right after install the shortcut registration can lag. If it opens but doesn't record, check your iOS version and that "Auto-start voice input on launch" is on.</p>
+          <p lang="ja" data-lang="ja" style="margin:0;">アクションボタンや背面タップの一覧に「声でメモ」が出てこないときは、アプリを一度起動してから設定を開き直してください（インストール直後はショートカットの登録が反映されていないことがあります）。開いても録音が始まらないときは、iOSのバージョンと「起動時に音声入力を自動オン」の状態を確認してください。</p>
+          <p lang="en" data-lang="en" style="margin:0;">If "Voice Memo" isn't in the Action button or Back Tap list, launch the app once and reopen Settings — right after install the shortcut registration can lag. If it opens but doesn't record, check your iOS version and that "Auto-start voice input on launch" is on.</p>
         </div>
       </section>
 
@@ -715,17 +723,17 @@
           <span lang="en" data-lang="en">FAQ</span>
         </h2>
         <div lang="ja" data-lang="ja">
-          <div class="faq-item"><details class="faq-details"><summary class="faq-summary">本当に5秒で終わりますか？</summary><div class="faq-answer"><p>呼び出しから送信完了までの実測で約5秒です。内訳は、背面タップでの呼び出しとアプリ起動に約1.5秒、話す時間が2秒前後、送信タップから画面が空になるまでが約1秒。話す内容が長ければその分だけ伸びますが、「アプリを探す」「マイクを押す」「保存先を選ぶ」といった操作時間はゼロのままです。</p></div></details></div>
-          <div class="faq-item"><details class="faq-details"><summary class="faq-summary">背面タップはどの機種で使えますか？</summary><div class="faq-answer"><p>iPhone 8 以降で使えます（iOSの設定 → アクセシビリティ → タッチ → 背面タップ）。iPhone 15 Pro 以降ならアクションボタンでも同じことができ、こちらは誤爆がほぼ無いのが利点です。どちらも無い場合は、ロック画面のコントロールやホーム画面のショートカット、Siriでも呼び出せます。</p></div></details></div>
-          <div class="faq-item"><details class="faq-details"><summary class="faq-summary">ショートカットを自分で作る必要はありますか？</summary><div class="faq-answer"><p>必要ありません。アプリが「声でメモ」「メモを書く」をショートカットとしてOSに公開しているため、背面タップやアクションボタンの割り当て一覧にそのまま並びます。ショートカットアプリでレシピを組む作業は不要です。</p></div></details></div>
+          <div class="faq-item"><details class="faq-details"><summary class="faq-summary">本当に5秒で終わりますか？</summary><div class="faq-answer"><p>呼び出しから送信完了までの実測で約5秒です。内訳は、アクションボタンの長押しとアプリ起動に約1.5秒、話す時間が2秒前後、送信タップから画面が空になるまでが約1秒。話す内容が長ければその分だけ伸びますが、「アプリを探す」「マイクを押す」「保存先を選ぶ」といった操作時間はゼロのままです。</p></div></details></div>
+          <div class="faq-item"><details class="faq-details"><summary class="faq-summary">アクションボタンが無い機種でも使えますか？</summary><div class="faq-answer"><p>使えます。背面タップ（iPhone 8 以降）に同じ「声でメモ」を割り当ててください。iOSの設定 → アクセシビリティ → タッチ → 背面タップ → ダブルタップ から選べます。ロック画面のコントロールやホーム画面のショートカット、Siriでも呼び出せます。なお、アクションボタンは iPhone 15 Pro／15 Pro Max と iPhone 16 シリーズ以降（16e を含む）に付いています。</p></div></details></div>
+          <div class="faq-item"><details class="faq-details"><summary class="faq-summary">ショートカットを自分で作る必要はありますか？</summary><div class="faq-answer"><p>必要ありません。アプリが「声でメモ」「メモを書く」をショートカットとしてOSに公開しているため、アクションボタンや背面タップの割り当て一覧にそのまま並びます。ショートカットアプリでレシピを組む作業は不要です。</p></div></details></div>
           <div class="faq-item"><details class="faq-details"><summary class="faq-summary">開いた瞬間に音声入力が始まるのはどう設定しますか？</summary><div class="faq-answer"><p>アプリの設定 → 詳細設定 →「起動時に音声入力を自動オン」をオンにします。設定 → 使い方 →「おすすめの使い方（最短5秒）」からも、その場でオンにできます。対応はiOS 26以降の対応端末です。</p></div></details></div>
           <div class="faq-item"><details class="faq-details"><summary class="faq-summary">話した内容はどこに残りますか？</summary><div class="faq-answer"><p>送信すると自分のメールの受信箱に届きます。<a href="/obsidian/">Obsidian連携</a>をオンにしていれば、同じ内容が保管庫のノートにも追記されます。文字起こしは端末内で完結し、音声もテキストも外部の音声認識サービスには送りません。</p></div></details></div>
           <div class="faq-item"><details class="faq-details"><summary class="faq-summary">言い間違えたときはどうすればいいですか？</summary><div class="faq-answer"><p>そのまま言い直して構いません。送信前ならキーボードで直せますし、入力中の内容は端末内に暗号化して<a href="/guides/draft-autosave/">自動保存</a>されるため、途中で中断しても次に開けば続きから編集できます。最短ルートの目的は「完璧な文を作ること」ではなく「思いつきを取り逃がさないこと」です。</p></div></details></div>
         </div>
         <div lang="en" data-lang="en">
-          <div class="faq-item"><details class="faq-details"><summary class="faq-summary">Is it really five seconds?</summary><div class="faq-answer"><p>About five seconds, measured from trigger to sent. Roughly 1.5s for the Back Tap and launch, ~2s of speaking, and ~1s from the send tap to an empty screen. Say more and it takes longer — but the time spent finding the app, pressing the mic, and choosing a destination stays at zero.</p></div></details></div>
-          <div class="faq-item"><details class="faq-details"><summary class="faq-summary">Which iPhones support Back Tap?</summary><div class="faq-answer"><p>iPhone 8 and later (Settings → Accessibility → Touch → Back Tap). On iPhone 15 Pro and later the Action button does the same thing with almost no accidental triggers. Without either, use a Lock Screen control, a Home Screen shortcut, or Siri.</p></div></details></div>
-          <div class="faq-item"><details class="faq-details"><summary class="faq-summary">Do I have to build a shortcut myself?</summary><div class="faq-answer"><p>No. The app publishes "Voice Memo" and "New Memo" as system shortcuts, so they show up directly in the Back Tap and Action button lists. There's no recipe to assemble in the Shortcuts app.</p></div></details></div>
+          <div class="faq-item"><details class="faq-details"><summary class="faq-summary">Is it really five seconds?</summary><div class="faq-answer"><p>About five seconds, measured from trigger to sent. Roughly 1.5s for the Action button press and launch, ~2s of speaking, and ~1s from the send tap to an empty screen. Say more and it takes longer — but the time spent finding the app, pressing the mic, and choosing a destination stays at zero.</p></div></details></div>
+          <div class="faq-item"><details class="faq-details"><summary class="faq-summary">What if my iPhone has no Action button?</summary><div class="faq-answer"><p>Assign the same "Voice Memo" shortcut to Back Tap instead (iPhone 8 and later): Settings → Accessibility → Touch → Back Tap → Double Tap. A Lock Screen control, a Home Screen shortcut, or Siri all work too. For reference, the Action button is on iPhone 15 Pro / 15 Pro Max and the iPhone 16 lineup onward, including 16e.</p></div></details></div>
+          <div class="faq-item"><details class="faq-details"><summary class="faq-summary">Do I have to build a shortcut myself?</summary><div class="faq-answer"><p>No. The app publishes "Voice Memo" and "New Memo" as system shortcuts, so they show up directly in the Action button and Back Tap lists. There's no recipe to assemble in the Shortcuts app.</p></div></details></div>
           <div class="faq-item"><details class="faq-details"><summary class="faq-summary">How do I make voice start the instant it opens?</summary><div class="faq-answer"><p>Turn on "Auto-start voice input on launch" under Advanced settings. You can also flip it from Settings → Help → "Recommended workflow (5 seconds)." It requires a supported device on iOS 26 or later.</p></div></details></div>
           <div class="faq-item"><details class="faq-details"><summary class="faq-summary">Where does what I said end up?</summary><div class="faq-answer"><p>Sending emails it to your own inbox. With <a href="/obsidian/">Obsidian integration</a> on, the same text is appended to a note in your vault. Transcription happens entirely on device — neither the audio nor the text goes to an external speech service.</p></div></details></div>
           <div class="faq-item"><details class="faq-details"><summary class="faq-summary">What if I misspeak?</summary><div class="faq-answer"><p>Just say it again. You can fix it with the keyboard before sending, and what you've entered is <a href="/guides/draft-autosave/">auto-saved</a> encrypted on device, so an interruption doesn't lose it. The point of the fast path isn't perfect prose — it's not losing the thought.</p></div></details></div>

diff --git a/voice-input/index.html b/voice-input/index.html
@@ -601,7 +601,7 @@
           <span lang="en" data-lang="en">Related Pages</span>
         </h2>
         <div class="internal-links">
-          <a href="/fastest-voice-memo/"><span lang="ja" data-lang="ja">背面タップで5秒メモ（おすすめの使い方）</span><span lang="en" data-lang="en">The 5-Second Memo (recommended workflow)</span></a>
+          <a href="/fastest-voice-memo/"><span lang="ja" data-lang="ja">アクションボタンで5秒メモ（おすすめの使い方）</span><span lang="en" data-lang="en">The 5-Second Memo (recommended workflow)</span></a>
           <a href="/obsidian/"><span lang="ja" data-lang="ja">Obsidian連携</span><span lang="en" data-lang="en">Obsidian Integration</span></a>
           <a href="/apple-watch-obsidian/"><span lang="ja" data-lang="ja">Apple Watch × Obsidian連携</span><span lang="en" data-lang="en">Apple Watch × Obsidian</span></a>
           <a href="/blog/obsidian-voice-input"><span lang="ja" data-lang="ja">Obsidianに音声入力でメモする方法4選</span><span lang="en" data-lang="en">Obsidian Voice Input — 4 Ways</span></a>

diff --git a/hands-free/index.html b/hands-free/index.html
@@ -524,7 +524,7 @@
           <span lang="en" data-lang="en">Related Pages</span>
         </h2>
         <div class="internal-links">
-          <a href="/fastest-voice-memo/"><span lang="ja" data-lang="ja">背面タップで5秒メモ（おすすめの使い方）</span><span lang="en" data-lang="en">The 5-Second Memo (recommended workflow)</span></a>
+          <a href="/fastest-voice-memo/"><span lang="ja" data-lang="ja">アクションボタンで5秒メモ（おすすめの使い方）</span><span lang="en" data-lang="en">The 5-Second Memo (recommended workflow)</span></a>
           <a href="/voice-input/"><span lang="ja" data-lang="ja">音声入力（音声自動入力）</span><span lang="en" data-lang="en">Voice Input</span></a>
           <a href="/obsidian/"><span lang="ja" data-lang="ja">Obsidian連携</span><span lang="en" data-lang="en">Obsidian Integration</span></a>
           <a href="/apple-watch-obsidian/"><span lang="ja" data-lang="ja">Apple Watch × Obsidian連携</span><span lang="en" data-lang="en">Apple Watch × Obsidian</span></a>

diff --git a/index.html b/index.html
@@ -1037,7 +1037,7 @@
           🚲🚗 移動中もハンズフリー（圏外OK）→
         </a>
         <a href="/fastest-voice-memo/" style="display:inline-flex;align-items:center;min-height:48px;margin-left:.6rem;padding:.7rem 1.2rem;border:1px solid rgba(34,211,238,.4);color:#22d3ee;text-decoration:none;font-weight:700;font-size:.9rem;border-radius:24px;word-break:keep-all;">
-          ⚡ 背面タップで5秒メモ（おすすめの使い方）→
+          ⚡ アクションボタンで5秒メモ（おすすめの使い方）→
         </a>
       </div>
     </div>
